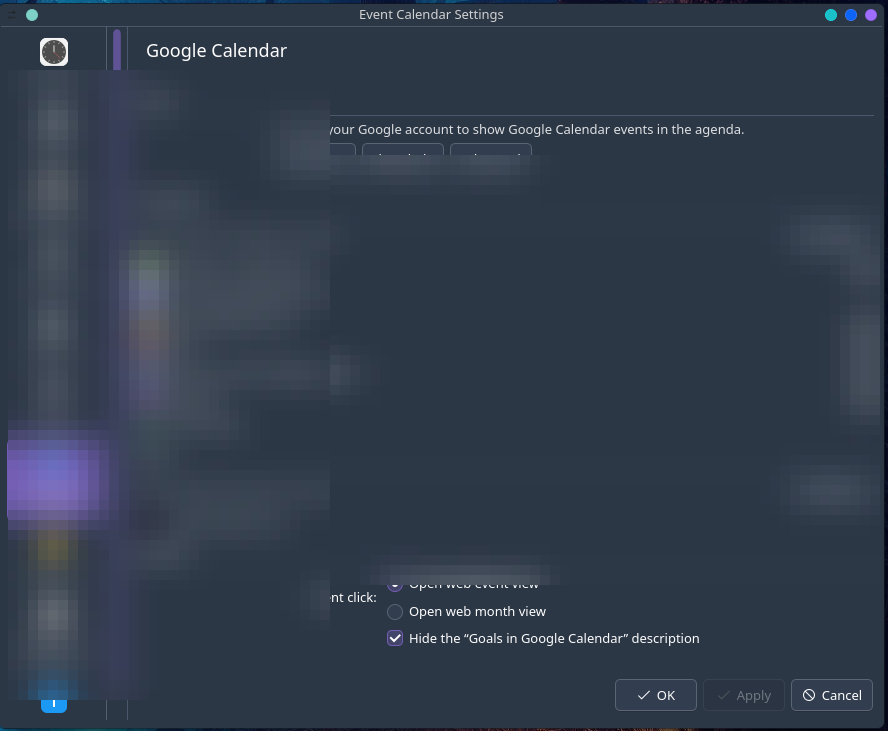
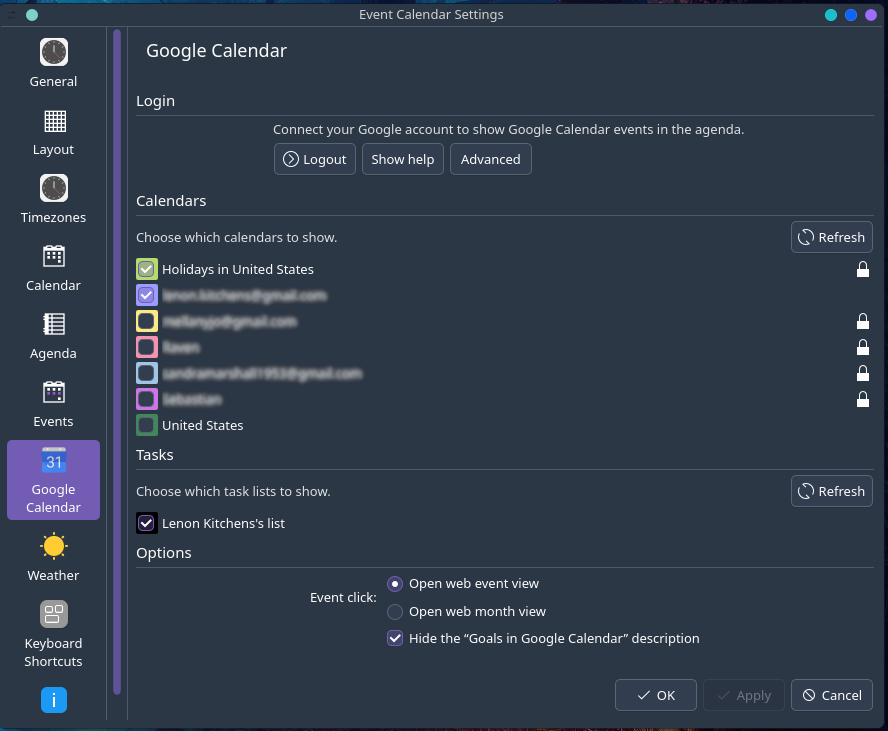
Replace README screenshot 3 with user-updated blurred desktop image

diff --git a/ReadMe.md b/ReadMe.md
@@ -23,7 +23,7 @@ Huge credit to Zren/Chris Holland for creating and maintaining the original appl
 
 ![Screenshot 1](screenshots/Screenshot_20260216_164842.png)
 ![Screenshot 2](screenshots/Screenshot_20260216_164942.png)
-![Screenshot 3](screenshots/Screenshot_20260216_164959_redacted.png)
+![Screenshot 3](screenshots/Screenshot_20260216_164959.png)
 ![Screenshot 4](screenshots/Screenshot_20260216_165021.png)
 
 ## Installation
